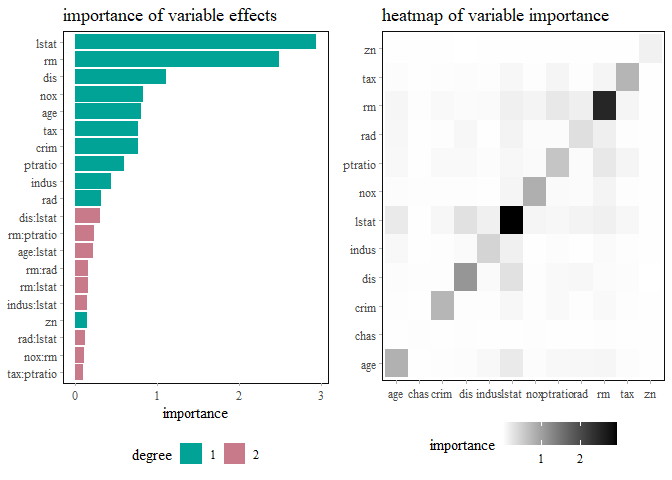
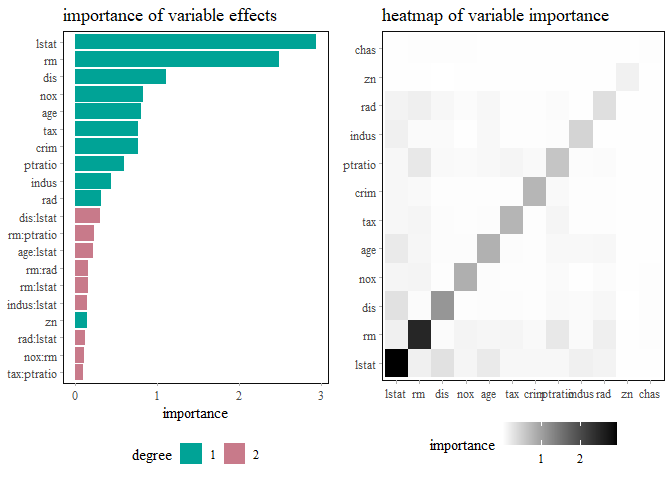
version 0.4.8.908 - Modify ggmid.mid.breakdown(), ggmid.mid.importance() and plot.mid.breakdown().

diff --git a/README.md b/README.md
@@ -179,8 +179,8 @@ grid.arrange(
 
 \[1\] Iwasawa, H. & Matsumori, Y. (2025). \[Forthcoming\]
 
-\[2\] Asashiba, R., Kozuma, R. & Iwasawa, H. (2025). “Global Additive
-Explanation of Black-Box Predictive Models in R”. \[Forthcoming\]
+\[2\] Asashiba, R., Kozuma, R. & Iwasawa, H. (2025). “Interpreting
+Black-Box Models by Functional Decomposition in R”. \[Forthcoming\]
 
 \[3\] Goldstein, A., Kapelner, A., Bleich, J., & Pitkin, E. (2015).
 “Peeking Inside the Black Box: Visualizing Statistical Learning With

diff --git a/NEWS.md b/NEWS.md
@@ -2,6 +2,10 @@
 
 [First release on CRAN.]
 
+## midr 0.4.8.9.8
+
+-   Modify `ggmid.mid.breakdown()` , `ggmid.mid.importance()` and `plot.mid.breakdown()` to improve usability of the functions.
+
 ## midr 0.4.8.907
 
 -   Modify `interpret()` to add the `pred.args` argument that can be used to pass optional arguments to the prediction function (`pred.fun()`).
